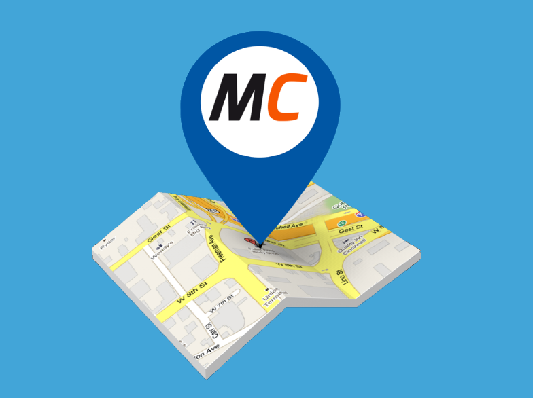
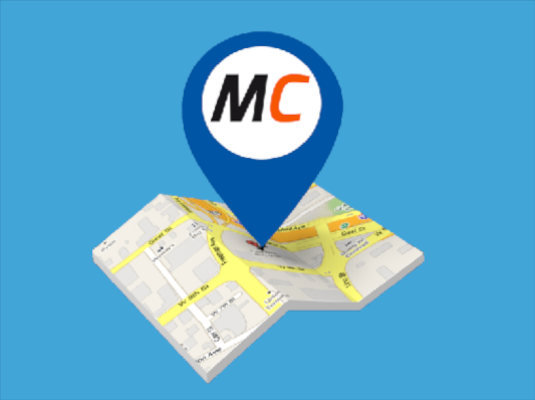
Re-sizing of a preview. Removed unnecesssary elements from the blog view

diff --git a/main/blog/index.html b/main/blog/index.html
@@ -1,7 +1,7 @@
 --- 
 layout: default
 pageClass: blog
-title: Experiment Stories 
+title: Experiment Stories
 ---
 
 <div class="container page-title center-align">
@@ -12,7 +12,7 @@ title: Experiment Stories
 </div>
 
 <div class="container">
-    
+
     <!-- Divider Starts -->
     <div class="divider center-align">
         <span class="outer-line"></span>
@@ -46,28 +46,30 @@ title: Experiment Stories
                     <!-- Excerpt Starts -->
                     <div class="blog-excerpt">
                         <p class="second-font">{{post.summary}}</p>
-                        <a href="{{post.url}}" class="col s12 m4 l4 xl4 waves-effect waves-light btn readmore font-weight-700">
-						Read more 
-					</a>
-                        <!-- Meta Starts -->
-                        <div class="meta second-font">
-                            <span><i class="fa fa-user"></i>{{post.author}}</span>
-                            <span class="post-date"><i class="fa fa-calendar"></i> {{post.date | date_to_string}}</span>
-                            <span><i class="fa fa-tags"></i> {{  post.tags | join: ', ' }} </span>
-                            <span class="permalink">
+                        <div>
+                            <a href="{{post.url}}" class="col s12 m4 l4 xl4 waves-effect waves-light btn readmore font-weight-700">
+						      Read more
+                            </a>
+                        </div> 
+                            <!-- Meta Starts -->
+                            <div class="meta second-font">
+                                <span><i class="fa fa-user"></i>{{post.author}}</span>
+                                <span class="post-date"><i class="fa fa-calendar"></i> {{post.date | date_to_string}}</span>
+                                <span><i class="fa fa-tags"></i> {{  post.tags | join: ', ' }} </span>
+                                <span class="permalink">
 							<i class="fa fa-link"></i> 
 							<a href="{{post.url}}">permalink</a>
 						</span>
+                            </div>
+                            <!-- Meta Ends -->
                         </div>
-                        <!-- Meta Ends -->
-                    </div>
-                    <!-- Excerpt Ends -->
+                        <!-- Excerpt Ends -->
                 </article>
                 <!-- Article Ends -->
                 {%- endfor -%} {%- include pagination.html -%}
+                </div>
+                <!-- Sidebar Starts -->
+                {%- include sidebar.html -%}
+                <!-- Sidebar Ends -->
             </div>
-            <!-- Sidebar Starts -->
-            {%- include sidebar.html -%}
-            <!-- Sidebar Ends -->
         </div>
-    </div>

diff --git a/main/_includes/sidebar.html b/main/_includes/sidebar.html
@@ -27,32 +27,6 @@
     {%- endif -%}
 
     <!-- Latest Posts Widget Ends -->
-    <div class="widget recent-posts">
-        <h3 class="widget-title">Recent Posts</h3>
-        <ul class="unstyled clearfix">
-            {%- for post in site.posts limit:5 -%}
-            <!-- Recent Post Widget Starts -->
-            <li>
-                <div class="posts-thumb pull-left">
-                    <a href="{{ post.url }}">
-                        <img alt="img" src="{{post.image }}">
-                    </a>
-                </div>
-                <div class="post-info">
-                    <h4 class="entry-title">
-                        <a href="{{ post.url }}">{{ post.title | truncate: 55 "" }}</a>
-                    </h4>
-                    <p class="post-meta second-font">
-                        <span class="post-date"> {{page.date | date_to_string}}</span>
-                    </p>
-                </div>
-                <div class="clearfix"></div>
-            </li>
-            <!-- Recent Post Widget Ends -->
-            {%- endfor -%}
-        </ul>
-    </div>
-    <!-- Latest Posts Widget Ends -->
     <!-- as you wish -->
     <!-- Categories Widget Starts -->
     <div class="widget">

diff --git a/main/index.html b/main/index.html
@@ -7,7 +7,7 @@ layout: default
 </div>
 
 <div id="bl-main" class="bl-main">
-
+    
     <!-- Top Left Section Starts -->
     {%- include sections/topleft.html -%}
     <!-- Top Left Section Ends -->

diff --git a/main/_posts/2022-08-01-Test-Post-3 copy 2.md b/main/_posts/2022-08-01-Test-Post-3 copy 2.md
@@ -1,0 +1,16 @@
+---
+layout: post
+title: "3 - Welcome to Jekyll!"
+image: /resources/images/projects/pagomovil/preview.png
+summary: This is the an example post. Lets see how it looks
+author: Carlos Aponte
+date: 2015-04-28 12:40:45
+tags: ["HTML", "Jekyll"]
+---
+
+
+# Welcome
+
+**Hello world**, this is my first Jekyll blog post.
+
+I hope you like it!

diff --git a/main/_posts/2022-08-01-Test-Post-3 copy 3.md b/main/_posts/2022-08-01-Test-Post-3 copy 3.md
@@ -1,0 +1,16 @@
+---
+layout: post
+title: "3 - Welcome to Jekyll!"
+image: /resources/images/projects/pagomovil/preview.png
+summary: This is the an example post. Lets see how it looks
+author: Carlos Aponte
+date: 2015-04-28 12:40:45
+tags: ["HTML", "Jekyll"]
+---
+
+
+# Welcome
+
+**Hello world**, this is my first Jekyll blog post.
+
+I hope you like it!

diff --git a/main/_posts/2022-08-01-Test-Post-3 copy 4.md b/main/_posts/2022-08-01-Test-Post-3 copy 4.md
@@ -1,0 +1,16 @@
+---
+layout: post
+title: "3 - Welcome to Jekyll!"
+image: /resources/images/projects/pagomovil/preview.png
+summary: This is the an example post. Lets see how it looks
+author: Carlos Aponte
+date: 2015-04-28 12:40:45
+tags: ["HTML", "Jekyll"]
+---
+
+
+# Welcome
+
+**Hello world**, this is my first Jekyll blog post.
+
+I hope you like it!

diff --git a/main/_posts/2022-08-01-Test-Post-3 copy 5.md b/main/_posts/2022-08-01-Test-Post-3 copy 5.md
@@ -1,0 +1,16 @@
+---
+layout: post
+title: "3 - Welcome to Jekyll!"
+image: /resources/images/projects/pagomovil/preview.png
+summary: This is the an example post. Lets see how it looks
+author: Carlos Aponte
+date: 2015-04-28 12:40:45
+tags: ["HTML", "Jekyll"]
+---
+
+
+# Welcome
+
+**Hello world**, this is my first Jekyll blog post.
+
+I hope you like it!

diff --git a/main/_posts/2022-08-01-Test-Post-3 copy 6.md b/main/_posts/2022-08-01-Test-Post-3 copy 6.md
@@ -1,0 +1,16 @@
+---
+layout: post
+title: "3 - Welcome to Jekyll!"
+image: /resources/images/projects/pagomovil/preview.png
+summary: This is the an example post. Lets see how it looks
+author: Carlos Aponte
+date: 2015-04-28 12:40:45
+tags: ["HTML", "Jekyll"]
+---
+
+
+# Welcome
+
+**Hello world**, this is my first Jekyll blog post.
+
+I hope you like it!

diff --git a/main/_posts/2022-08-01-Test-Post-3 copy.md b/main/_posts/2022-08-01-Test-Post-3 copy.md
@@ -1,0 +1,16 @@
+---
+layout: post
+title: "3 - Welcome to Jekyll!"
+image: /resources/images/projects/pagomovil/preview.png
+summary: This is the an example post. Lets see how it looks
+author: Carlos Aponte
+date: 2015-04-28 12:40:45
+tags: ["HTML", "Jekyll"]
+---
+
+
+# Welcome
+
+**Hello world**, this is my first Jekyll blog post.
+
+I hope you like it!

diff --git a/main/_posts/2022-08-01-Test-Post-3.md b/main/_posts/2022-08-01-Test-Post-3.md
@@ -1,0 +1,16 @@
+---
+layout: post
+title: "3 - Welcome to Jekyll!"
+image: /resources/images/projects/pagomovil/preview.png
+summary: This is the an example post. Lets see how it looks
+author: Carlos Aponte
+date: 2015-04-28 12:40:45
+tags: ["HTML", "Jekyll"]
+---
+
+
+# Welcome
+
+**Hello world**, this is my first Jekyll blog post.
+
+I hope you like it!
